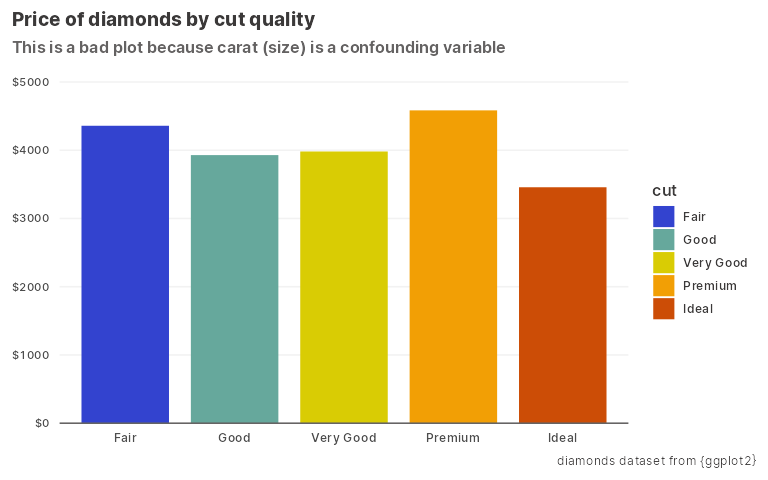
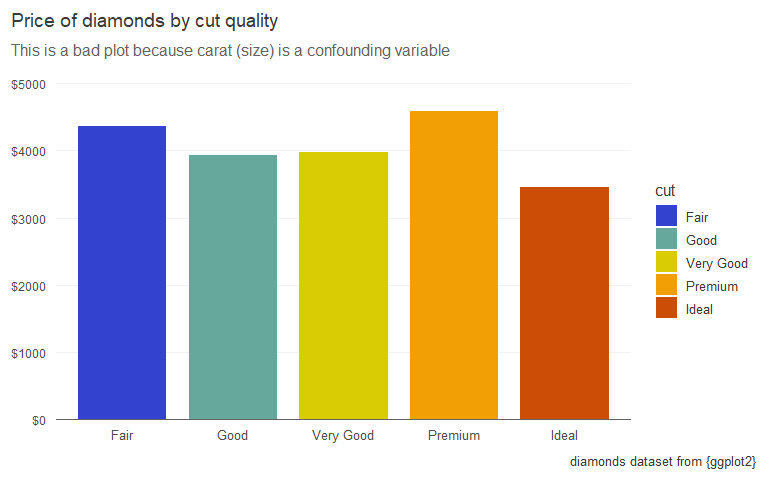
new fns

diff --git a/README.md b/README.md
@@ -42,6 +42,71 @@ ggplot(diamonds, aes(cut, price, fill = cut)) +
     caption = "diamonds dataset from {ggplot2}"
   ) +
   theme_pgl_minimal(axis_lines = "x", grid_lines = "y")
+#> Warning in grid.Call(C_stringMetric, as.graphicsAnnot(x$label)): font family not
+#> found in Windows font database
+
+#> Warning in grid.Call(C_stringMetric, as.graphicsAnnot(x$label)): font family not
+#> found in Windows font database
+
+#> Warning in grid.Call(C_stringMetric, as.graphicsAnnot(x$label)): font family not
+#> found in Windows font database
+#> Warning in grid.Call(C_textBounds, as.graphicsAnnot(x$label), x$x, x$y, : font
+#> family not found in Windows font database
+#> Warning in grid.Call(C_stringMetric, as.graphicsAnnot(x$label)): font family not
+#> found in Windows font database
+
+#> Warning in grid.Call(C_stringMetric, as.graphicsAnnot(x$label)): font family not
+#> found in Windows font database
+
+#> Warning in grid.Call(C_stringMetric, as.graphicsAnnot(x$label)): font family not
+#> found in Windows font database
+#> Warning in grid.Call(C_textBounds, as.graphicsAnnot(x$label), x$x, x$y, : font
+#> family not found in Windows font database
+
+#> Warning in grid.Call(C_textBounds, as.graphicsAnnot(x$label), x$x, x$y, : font
+#> family not found in Windows font database
+
+#> Warning in grid.Call(C_textBounds, as.graphicsAnnot(x$label), x$x, x$y, : font
+#> family not found in Windows font database
+
+#> Warning in grid.Call(C_textBounds, as.graphicsAnnot(x$label), x$x, x$y, : font
+#> family not found in Windows font database
+
+#> Warning in grid.Call(C_textBounds, as.graphicsAnnot(x$label), x$x, x$y, : font
+#> family not found in Windows font database
+
+#> Warning in grid.Call(C_textBounds, as.graphicsAnnot(x$label), x$x, x$y, : font
+#> family not found in Windows font database
+
+#> Warning in grid.Call(C_textBounds, as.graphicsAnnot(x$label), x$x, x$y, : font
+#> family not found in Windows font database
+
+#> Warning in grid.Call(C_textBounds, as.graphicsAnnot(x$label), x$x, x$y, : font
+#> family not found in Windows font database
+
+#> Warning in grid.Call(C_textBounds, as.graphicsAnnot(x$label), x$x, x$y, : font
+#> family not found in Windows font database
+
+#> Warning in grid.Call(C_textBounds, as.graphicsAnnot(x$label), x$x, x$y, : font
+#> family not found in Windows font database
+
+#> Warning in grid.Call(C_textBounds, as.graphicsAnnot(x$label), x$x, x$y, : font
+#> family not found in Windows font database
+
+#> Warning in grid.Call(C_textBounds, as.graphicsAnnot(x$label), x$x, x$y, : font
+#> family not found in Windows font database
+
+#> Warning in grid.Call(C_textBounds, as.graphicsAnnot(x$label), x$x, x$y, : font
+#> family not found in Windows font database
+
+#> Warning in grid.Call(C_textBounds, as.graphicsAnnot(x$label), x$x, x$y, : font
+#> family not found in Windows font database
+
+#> Warning in grid.Call(C_textBounds, as.graphicsAnnot(x$label), x$x, x$y, : font
+#> family not found in Windows font database
+
+#> Warning in grid.Call(C_textBounds, as.graphicsAnnot(x$label), x$x, x$y, : font
+#> family not found in Windows font database
 ```
 
 <img src="man/figures/README-theme-minimal-1.png" width="100%" />
